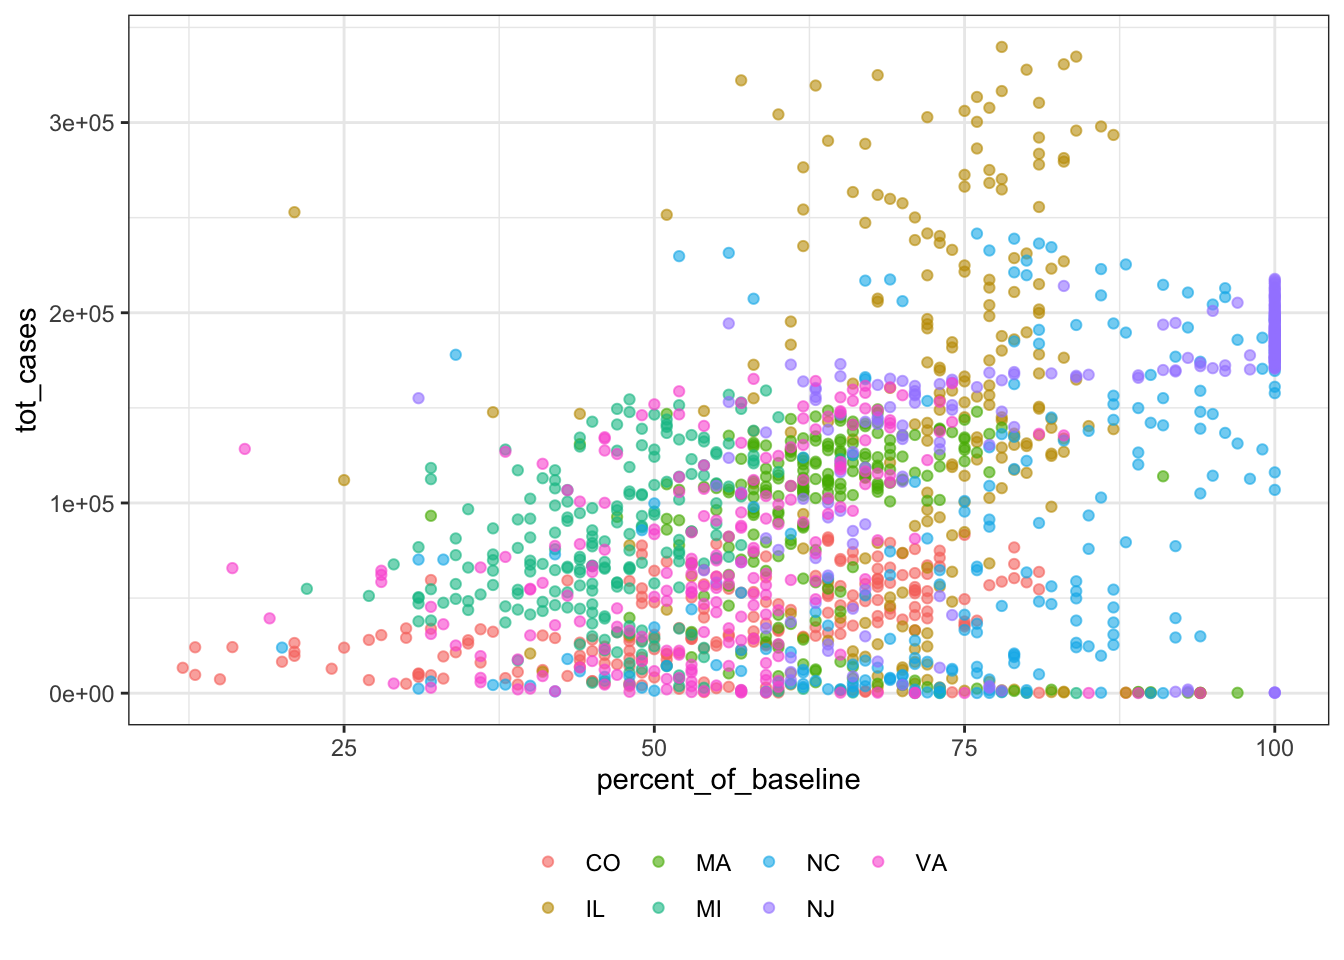
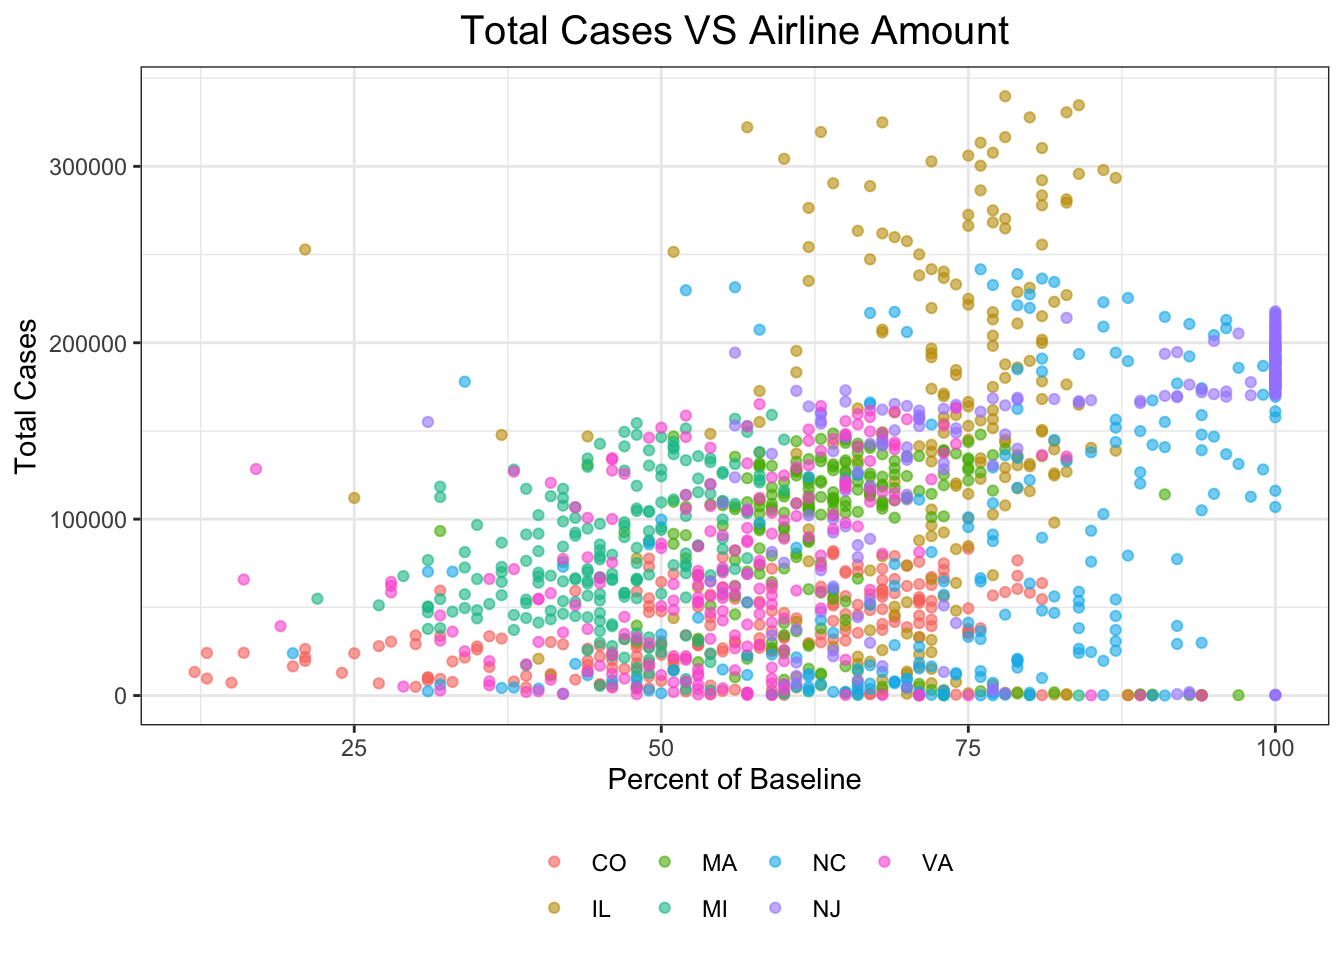
regression adjustment

diff --git a/graphs.html b/graphs.html
@@ -406,7 +406,7 @@ div.tocify {
 
 
 <p><strong>After determining that the outbreak of COVID-19 took place in mid-March and still has not been under full control, we can start analyzing data within this time frame.</strong></p>
-<p><em>Firstly, we mapped two bubble maps to see how air transportation is affected by comparing the flight numbers’ changes since the middle of March and the number of total COVID-19 cases by states.</em></p>
+<p><em>Firstly, we mapped two bubble maps to see how air transportation is affected by comparing the flight amount since the middle of March with the number of total COVID-19 cases by states. Percent of baseline is the amount of flight compared to the baseline flight amount, which makes the data easier to understand and compare.</em></p>
 <pre class="r"><code>#import data for covid_impact_on_airport_traffic
 #Main Problem: join data, have date and state match for both data
 # Transportation and Covid have different way to representing date(2020-01-01 in transportation date and 01/01/2020 in Covid data)
@@ -471,9 +471,9 @@ m &lt;- leaflet(transport_state) %&gt;%
   addLegend( pal= mypalette, values=~mean_percent_base, opacity=1, title = &quot;Percent of baseline&quot;, position = &quot;bottomright&quot; )
   
 m</code></pre>
-<div id="htmlwidget-f867354e3a655a6675f7" style="width:672px;height:480px;" class="leaflet html-widget"></div>
-<script type="application/json" data-for="htmlwidget-f867354e3a655a6675f7">{"x":{"options":{"crs":{"crsClass":"L.CRS.EPSG3857","code":null,"proj4def":null,"projectedBounds":null,"options":{}}},"calls":[{"method":"addTiles","args":["//{s}.tile.openstreetmap.org/{z}/{x}/{y}.png",null,null,{"minZoom":0,"maxZoom":18,"tileSize":256,"subdomains":"abc","errorTileUrl":"","tms":false,"noWrap":false,"zoomOffset":0,"zoomReverse":false,"opacity":1,"zIndex":1,"detectRetina":false,"attribution":"&copy; <a href=\"http://openstreetmap.org\">OpenStreetMap<\/a> contributors, <a href=\"http://creativecommons.org/licenses/by-sa/2.0/\">CC-BY-SA<\/a>"}]},{"method":"addProviderTiles","args":["CartoDB.Positron",null,null,{"errorTileUrl":"","noWrap":false,"detectRetina":false}]},{"method":"addCircleMarkers","args":[[42,35,42,40,42,41,39],[-71,-81,-88,-105,-83,-74,-77],[32.125,37.88,36.07,27.645,23.545,42.665,27.495],null,null,{"interactive":true,"className":"","stroke":false,"color":"white","weight":5,"opacity":0.5,"fill":true,"fillColor":["#B6367A","#FB8861","#FB8861","#51127C","#000004","#FCFDBF","#51127C"],"fillOpacity":0.7},null,null,null,null,["Longitude:  -71 Latitude:  42 Percent of baseline:  64.25","Longitude:  -81 Latitude:  35 Percent of baseline:  75.76","Longitude:  -88 Latitude:  42 Percent of baseline:  72.14","Longitude:  -105 Latitude:  40 Percent of baseline:  55.29","Longitude:  -83 Latitude:  42 Percent of baseline:  47.09","Longitude:  -74 Latitude:  41 Percent of baseline:  85.33","Longitude:  -77 Latitude:  39 Percent of baseline:  54.99"],{"interactive":false,"permanent":false,"direction":"auto","opacity":1,"offset":[0,0],"textsize":"13px","textOnly":false,"style":{"font-weight":"normal","padding":"3px 8px"},"className":"","sticky":true},null]},{"method":"addLegend","args":[{"colors":["#000004","#51127C","#B6367A","#FB8861","#FCFDBF"],"labels":["40 &ndash; 50","50 &ndash; 60","60 &ndash; 70","70 &ndash; 80","80 &ndash; 90"],"na_color":null,"na_label":"NA","opacity":1,"position":"bottomright","type":"bin","title":"Percent of baseline","extra":null,"layerId":null,"className":"info legend","group":null}]}],"limits":{"lat":[35,42],"lng":[-105,-71]}},"evals":[],"jsHooks":[]}</script>
-<p>The air transportation bubble map shows a comparison of the different proportions of the average number of trips from Mar.16th to Oct.16th, 2020, to the average baseline number of trips during the same period among the seven major airports in the US States:</p>
+<div id="htmlwidget-2db828e2e9e292097f38" style="width:672px;height:480px;" class="leaflet html-widget"></div>
+<script type="application/json" data-for="htmlwidget-2db828e2e9e292097f38">{"x":{"options":{"crs":{"crsClass":"L.CRS.EPSG3857","code":null,"proj4def":null,"projectedBounds":null,"options":{}}},"calls":[{"method":"addTiles","args":["//{s}.tile.openstreetmap.org/{z}/{x}/{y}.png",null,null,{"minZoom":0,"maxZoom":18,"tileSize":256,"subdomains":"abc","errorTileUrl":"","tms":false,"noWrap":false,"zoomOffset":0,"zoomReverse":false,"opacity":1,"zIndex":1,"detectRetina":false,"attribution":"&copy; <a href=\"http://openstreetmap.org\">OpenStreetMap<\/a> contributors, <a href=\"http://creativecommons.org/licenses/by-sa/2.0/\">CC-BY-SA<\/a>"}]},{"method":"addProviderTiles","args":["CartoDB.Positron",null,null,{"errorTileUrl":"","noWrap":false,"detectRetina":false}]},{"method":"addCircleMarkers","args":[[42,35,42,40,42,41,39],[-71,-81,-88,-105,-83,-74,-77],[32.125,37.88,36.07,27.645,23.545,42.665,27.495],null,null,{"interactive":true,"className":"","stroke":false,"color":"white","weight":5,"opacity":0.5,"fill":true,"fillColor":["#B6367A","#FB8861","#FB8861","#51127C","#000004","#FCFDBF","#51127C"],"fillOpacity":0.7},null,null,null,null,["Longitude:  -71 Latitude:  42 Percent of baseline:  64.25","Longitude:  -81 Latitude:  35 Percent of baseline:  75.76","Longitude:  -88 Latitude:  42 Percent of baseline:  72.14","Longitude:  -105 Latitude:  40 Percent of baseline:  55.29","Longitude:  -83 Latitude:  42 Percent of baseline:  47.09","Longitude:  -74 Latitude:  41 Percent of baseline:  85.33","Longitude:  -77 Latitude:  39 Percent of baseline:  54.99"],{"interactive":false,"permanent":false,"direction":"auto","opacity":1,"offset":[0,0],"textsize":"13px","textOnly":false,"style":{"font-weight":"normal","padding":"3px 8px"},"className":"","sticky":true},null]},{"method":"addLegend","args":[{"colors":["#000004","#51127C","#B6367A","#FB8861","#FCFDBF"],"labels":["40 &ndash; 50","50 &ndash; 60","60 &ndash; 70","70 &ndash; 80","80 &ndash; 90"],"na_color":null,"na_label":"NA","opacity":1,"position":"bottomright","type":"bin","title":"Percent of baseline","extra":null,"layerId":null,"className":"info legend","group":null}]}],"limits":{"lat":[35,42],"lng":[-105,-71]}},"evals":[],"jsHooks":[]}</script>
+<p>The air transportation bubble map shows a comparison between the average flight amount from Mar.16th to Oct.16th, 2020, and total covid-19 cases during the same period among the seven major airports in the US States:</p>
 <p>• Boston Logan International</p>
 <p>• Charlotte Douglas International</p>
 <p>• Chicago O’Hare International</p>
@@ -481,7 +481,7 @@ m</code></pre>
 <p>• Detroit Metropolitan Wayne County</p>
 <p>• Newark Liberty International</p>
 <p>•Washington Dulles International</p>
-<p>The larger the bubble is, the greater the percent of baseline and the smaller difference from the baseline will be. For Instances, we can see that the proportion corresponding to Newark Liberty International Airport (NJ) is the greatest, while the proportion corresponding to Washington Dulles International (VA) is the smallest. This difference implies that COVID-19 has brought a much more severe impact to air transportation in New Jersey than in Virginia.</p>
+<p>The larger the bubble is, the greater the percent of baseline and the smaller difference from the baseline will be. For instance, we can see that the proportion of Newark Liberty International Airport (NJ) is the greatest, while the proportion of Washington Dulles International (VA) is the smallest. This difference implies that COVID-19 has brought a much more severe impact to air transportation in New Jersey than in Virginia.</p>
 </div>
 <div id="covid-bubble-map" class="section level3">
 <h3>Covid Bubble Map</h3>
@@ -522,21 +522,23 @@ n &lt;- leaflet(case_state) %&gt;%
   addLegend( pal= mypalette, values=~total_cases, opacity=1, title = &quot;Total cases&quot;, position = &quot;bottomright&quot; )
   
 n</code></pre>
-<div id="htmlwidget-e49de5e0dee86c514f4f" style="width:672px;height:480px;" class="leaflet html-widget"></div>
-<script type="application/json" data-for="htmlwidget-e49de5e0dee86c514f4f">{"x":{"options":{"crs":{"crsClass":"L.CRS.EPSG3857","code":null,"proj4def":null,"projectedBounds":null,"options":{}}},"calls":[{"method":"addTiles","args":["//{s}.tile.openstreetmap.org/{z}/{x}/{y}.png",null,null,{"minZoom":0,"maxZoom":18,"tileSize":256,"subdomains":"abc","errorTileUrl":"","tms":false,"noWrap":false,"zoomOffset":0,"zoomReverse":false,"opacity":1,"zIndex":1,"detectRetina":false,"attribution":"&copy; <a href=\"http://openstreetmap.org\">OpenStreetMap<\/a> contributors, <a href=\"http://creativecommons.org/licenses/by-sa/2.0/\">CC-BY-SA<\/a>"}]},{"method":"addProviderTiles","args":["CartoDB.Positron",null,null,{"errorTileUrl":"","noWrap":false,"detectRetina":false}]},{"method":"addCircleMarkers","args":[[42,35,42,40,42,41,39],[-71,-81,-88,-105,-83,-74,-77],[30.2349156605405,38.4699996750715,45.6183748614525,22.5783912181537,31.2186462710989,36.5246423664901,31.8132480265691],null,null,{"interactive":true,"className":"","stroke":false,"color":"white","weight":5,"opacity":0.5,"fill":true,"fillColor":["#3B0F70","#DE4968","#FCFDBF","#000004","#3B0F70","#8C2981","#3B0F70"],"fillOpacity":0.7},null,null,null,null,["Longitude:  -71 Latitude:  42 Total Cases:  149249","Longitude:  -81 Latitude:  35 Total Cases:  241623","Longitude:  -88 Latitude:  42 Total Cases:  339761","Longitude:  -105 Latitude:  40 Total Cases:  83230","Longitude:  -83 Latitude:  42 Total Cases:  159119","Longitude:  -74 Latitude:  41 Total Cases:  217804","Longitude:  -77 Latitude:  39 Total Cases:  165238"],{"interactive":false,"permanent":false,"direction":"auto","opacity":1,"offset":[0,0],"textsize":"13px","textOnly":false,"style":{"font-weight":"normal","padding":"3px 8px"},"className":"","sticky":true},null]},{"method":"addLegend","args":[{"colors":["#000004","#3B0F70","#8C2981","#DE4968","#FE9F6D","#FCFDBF"],"labels":["80,000 &ndash; 130,000","130,000 &ndash; 180,000","180,000 &ndash; 230,000","230,000 &ndash; 280,000","280,000 &ndash; 330,000","330,000 &ndash; 380,000"],"na_color":null,"na_label":"NA","opacity":1,"position":"bottomright","type":"bin","title":"Total cases","extra":null,"layerId":null,"className":"info legend","group":null}]}],"limits":{"lat":[35,42],"lng":[-105,-71]}},"evals":[],"jsHooks":[]}</script>
-<p>The COVID bubble map provides information on the number of total COVID-19 cases from Mar.16th to Oct.16th by states. The larger the bubble size is, the larger number of the total COVID-19 cases is. As seen in this plot, Illinois, North Carolina, and New Jersey have a relatively greater number of total cases, while Colorado has the smallest number of total cases.</p>
+<div id="htmlwidget-fc703de9af256896ac09" style="width:672px;height:480px;" class="leaflet html-widget"></div>
+<script type="application/json" data-for="htmlwidget-fc703de9af256896ac09">{"x":{"options":{"crs":{"crsClass":"L.CRS.EPSG3857","code":null,"proj4def":null,"projectedBounds":null,"options":{}}},"calls":[{"method":"addTiles","args":["//{s}.tile.openstreetmap.org/{z}/{x}/{y}.png",null,null,{"minZoom":0,"maxZoom":18,"tileSize":256,"subdomains":"abc","errorTileUrl":"","tms":false,"noWrap":false,"zoomOffset":0,"zoomReverse":false,"opacity":1,"zIndex":1,"detectRetina":false,"attribution":"&copy; <a href=\"http://openstreetmap.org\">OpenStreetMap<\/a> contributors, <a href=\"http://creativecommons.org/licenses/by-sa/2.0/\">CC-BY-SA<\/a>"}]},{"method":"addProviderTiles","args":["CartoDB.Positron",null,null,{"errorTileUrl":"","noWrap":false,"detectRetina":false}]},{"method":"addCircleMarkers","args":[[42,35,42,40,42,41,39],[-71,-81,-88,-105,-83,-74,-77],[30.2349156605405,38.4699996750715,45.6183748614525,22.5783912181537,31.2186462710989,36.5246423664901,31.8132480265691],null,null,{"interactive":true,"className":"","stroke":false,"color":"white","weight":5,"opacity":0.5,"fill":true,"fillColor":["#3B0F70","#DE4968","#FCFDBF","#000004","#3B0F70","#8C2981","#3B0F70"],"fillOpacity":0.7},null,null,null,null,["Longitude:  -71 Latitude:  42 Total Cases:  149249","Longitude:  -81 Latitude:  35 Total Cases:  241623","Longitude:  -88 Latitude:  42 Total Cases:  339761","Longitude:  -105 Latitude:  40 Total Cases:  83230","Longitude:  -83 Latitude:  42 Total Cases:  159119","Longitude:  -74 Latitude:  41 Total Cases:  217804","Longitude:  -77 Latitude:  39 Total Cases:  165238"],{"interactive":false,"permanent":false,"direction":"auto","opacity":1,"offset":[0,0],"textsize":"13px","textOnly":false,"style":{"font-weight":"normal","padding":"3px 8px"},"className":"","sticky":true},null]},{"method":"addLegend","args":[{"colors":["#000004","#3B0F70","#8C2981","#DE4968","#FE9F6D","#FCFDBF"],"labels":["80,000 &ndash; 130,000","130,000 &ndash; 180,000","180,000 &ndash; 230,000","230,000 &ndash; 280,000","280,000 &ndash; 330,000","330,000 &ndash; 380,000"],"na_color":null,"na_label":"NA","opacity":1,"position":"bottomright","type":"bin","title":"Total cases","extra":null,"layerId":null,"className":"info legend","group":null}]}],"limits":{"lat":[35,42],"lng":[-105,-71]}},"evals":[],"jsHooks":[]}</script>
+<p>The COVID bubble map provides information on the number of total COVID-19 cases from Mar.16th to Oct.16th by states. The larger the bubble size is, the larger the number of the total COVID-19 cases is. As seen in this plot, Illinois, North Carolina, and New Jersey have a relatively greater number of total cases, while Colorado has the smallest number of total cases.</p>
 <p><em>By comparing the two bubble maps, we can see an association between the flights and the number of total COVID-19 cases from Mar.16th to Oct.16th. For the states, such as New Jersey, the percent of baseline for the flights is relatively smaller with more total cases, suggesting that as the number of total cases increases, the impact of COVID-19 brought to the air transportation will also be increased.</em></p>
 </div>
 <div id="regression-analysis" class="section level3">
 <h3>Regression Analysis</h3>
 <pre class="r"><code>Covid_transport_data %&gt;% 
   ggplot(aes(x = percent_of_baseline, y = tot_cases, color = state.x)) + 
-  geom_point(alpha = 0.6) </code></pre>
+  geom_point(alpha = 0.6) +
+  labs(
+    title = &quot;Total Cases VS Airline Amount&quot;,
+    x = &quot;Percent of Baseline&quot;,
+    y = &quot;Total Cases&quot;
+  )</code></pre>
 <p><img src="graphs_files/figure-html/unnamed-chunk-5-1.png" width="672" /></p>
 <pre class="r"><code>regression_tot = lm(tot_cases ~ percent_of_baseline, Covid_transport_data)
-
-
-
 knitr::kable(tidy(regression_tot))</code></pre>
 <table>
 <thead>
@@ -554,18 +556,18 @@ knitr::kable(tidy(regression_tot))</code></pre>
 <td align="right">-25176.148</td>
 <td align="right">6086.44823</td>
 <td align="right">-4.136427</td>
-<td align="right">3.72e-05</td>
+<td align="right">0.0000372</td>
 </tr>
 <tr class="even">
 <td align="left">percent_of_baseline</td>
 <td align="right">1845.606</td>
 <td align="right">90.24531</td>
 <td align="right">20.450995</td>
-<td align="right">0.00e+00</td>
+<td align="right">0.0000000</td>
 </tr>
 </tbody>
 </table>
-<p>There is an positive association in total cases with respect to percent of baseline, the airline amounts for all states, so we do a regression test for each state to see if this positive relation can be applied to every state.</p>
+<p>There is a positive association in total cases with respect to percent of baseline, the airline amount for all states, so we do a regression test for each state to see if this positive relation can be applied to every state.</p>
 <pre class="r"><code>regression_state = Covid_transport_data %&gt;% 
   nest(data = -state.x) %&gt;% 
   mutate(
@@ -576,8 +578,80 @@ knitr::kable(tidy(regression_tot))</code></pre>
   select(-data, -models) %&gt;% 
   unnest(results) %&gt;% 
   filter(str_detect(term, &quot;percent_of_baseline&quot;)) %&gt;% 
-  knitr::kable(digits = 3)</code></pre>
-<p>We can see from the regression table that four states have statistically significant p-values. They demonstrate a tendency that as airlines start to increase, the total cases increase accordingly with a relatively steep slope. In other words, covid-19 cases are positively associated with airline amounts in Colorado, North Carolina, New Jersey, Virginia. For Illinois and Michigan, p-values are not statistically strong, but the estimated slope is positive. However, Massachusetts has a negative slope with large p-value, which indicates that there might be no association in airline amounts and covid-19 cases or there might be stronger factors associated with covid-19 cases.</p>
+  knitr::kable()
+
+regression_state</code></pre>
+<table>
+<thead>
+<tr class="header">
+<th align="left">state.x</th>
+<th align="left">term</th>
+<th align="right">estimate</th>
+<th align="right">std.error</th>
+<th align="right">statistic</th>
+<th align="right">p.value</th>
+</tr>
+</thead>
+<tbody>
+<tr class="odd">
+<td align="left">CO</td>
+<td align="left">percent_of_baseline</td>
+<td align="right">651.7285</td>
+<td align="right">88.42911</td>
+<td align="right">7.370067</td>
+<td align="right">0.0000000</td>
+</tr>
+<tr class="even">
+<td align="left">IL</td>
+<td align="left">percent_of_baseline</td>
+<td align="right">1348.0381</td>
+<td align="right">635.67225</td>
+<td align="right">2.120650</td>
+<td align="right">0.0351133</td>
+</tr>
+<tr class="odd">
+<td align="left">MA</td>
+<td align="left">percent_of_baseline</td>
+<td align="right">-588.8396</td>
+<td align="right">342.38306</td>
+<td align="right">-1.719827</td>
+<td align="right">0.0869233</td>
+</tr>
+<tr class="even">
+<td align="left">MI</td>
+<td align="left">percent_of_baseline</td>
+<td align="right">102.4457</td>
+<td align="right">326.82936</td>
+<td align="right">0.313453</td>
+<td align="right">0.7542447</td>
+</tr>
+<tr class="odd">
+<td align="left">NC</td>
+<td align="left">percent_of_baseline</td>
+<td align="right">2137.6537</td>
+<td align="right">282.22816</td>
+<td align="right">7.574204</td>
+<td align="right">0.0000000</td>
+</tr>
+<tr class="even">
+<td align="left">NJ</td>
+<td align="left">percent_of_baseline</td>
+<td align="right">2102.5698</td>
+<td align="right">198.23448</td>
+<td align="right">10.606479</td>
+<td align="right">0.0000000</td>
+</tr>
+<tr class="odd">
+<td align="left">VA</td>
+<td align="left">percent_of_baseline</td>
+<td align="right">1272.0661</td>
+<td align="right">279.14163</td>
+<td align="right">4.557063</td>
+<td align="right">0.0000088</td>
+</tr>
+</tbody>
+</table>
+<p>We can see from the regression table that four states have statistically significant p-values. They demonstrate a tendency that as airlines start to increase, the total cases increase accordingly with a relatively steep slope. In other words, covid-19 cases are positively associated with airline amount in Colorado, North Carolina, New Jersey, Virginia. For Illinois and Michigan, p-values are not statistically strong, but the estimated slope is positive. However, Massachusetts has a negative slope with large p-value, which indicates that there might be no association in airline amount and covid-19 cases or there might be stronger factors associated with covid-19 cases.</p>
 </div>
 
 
